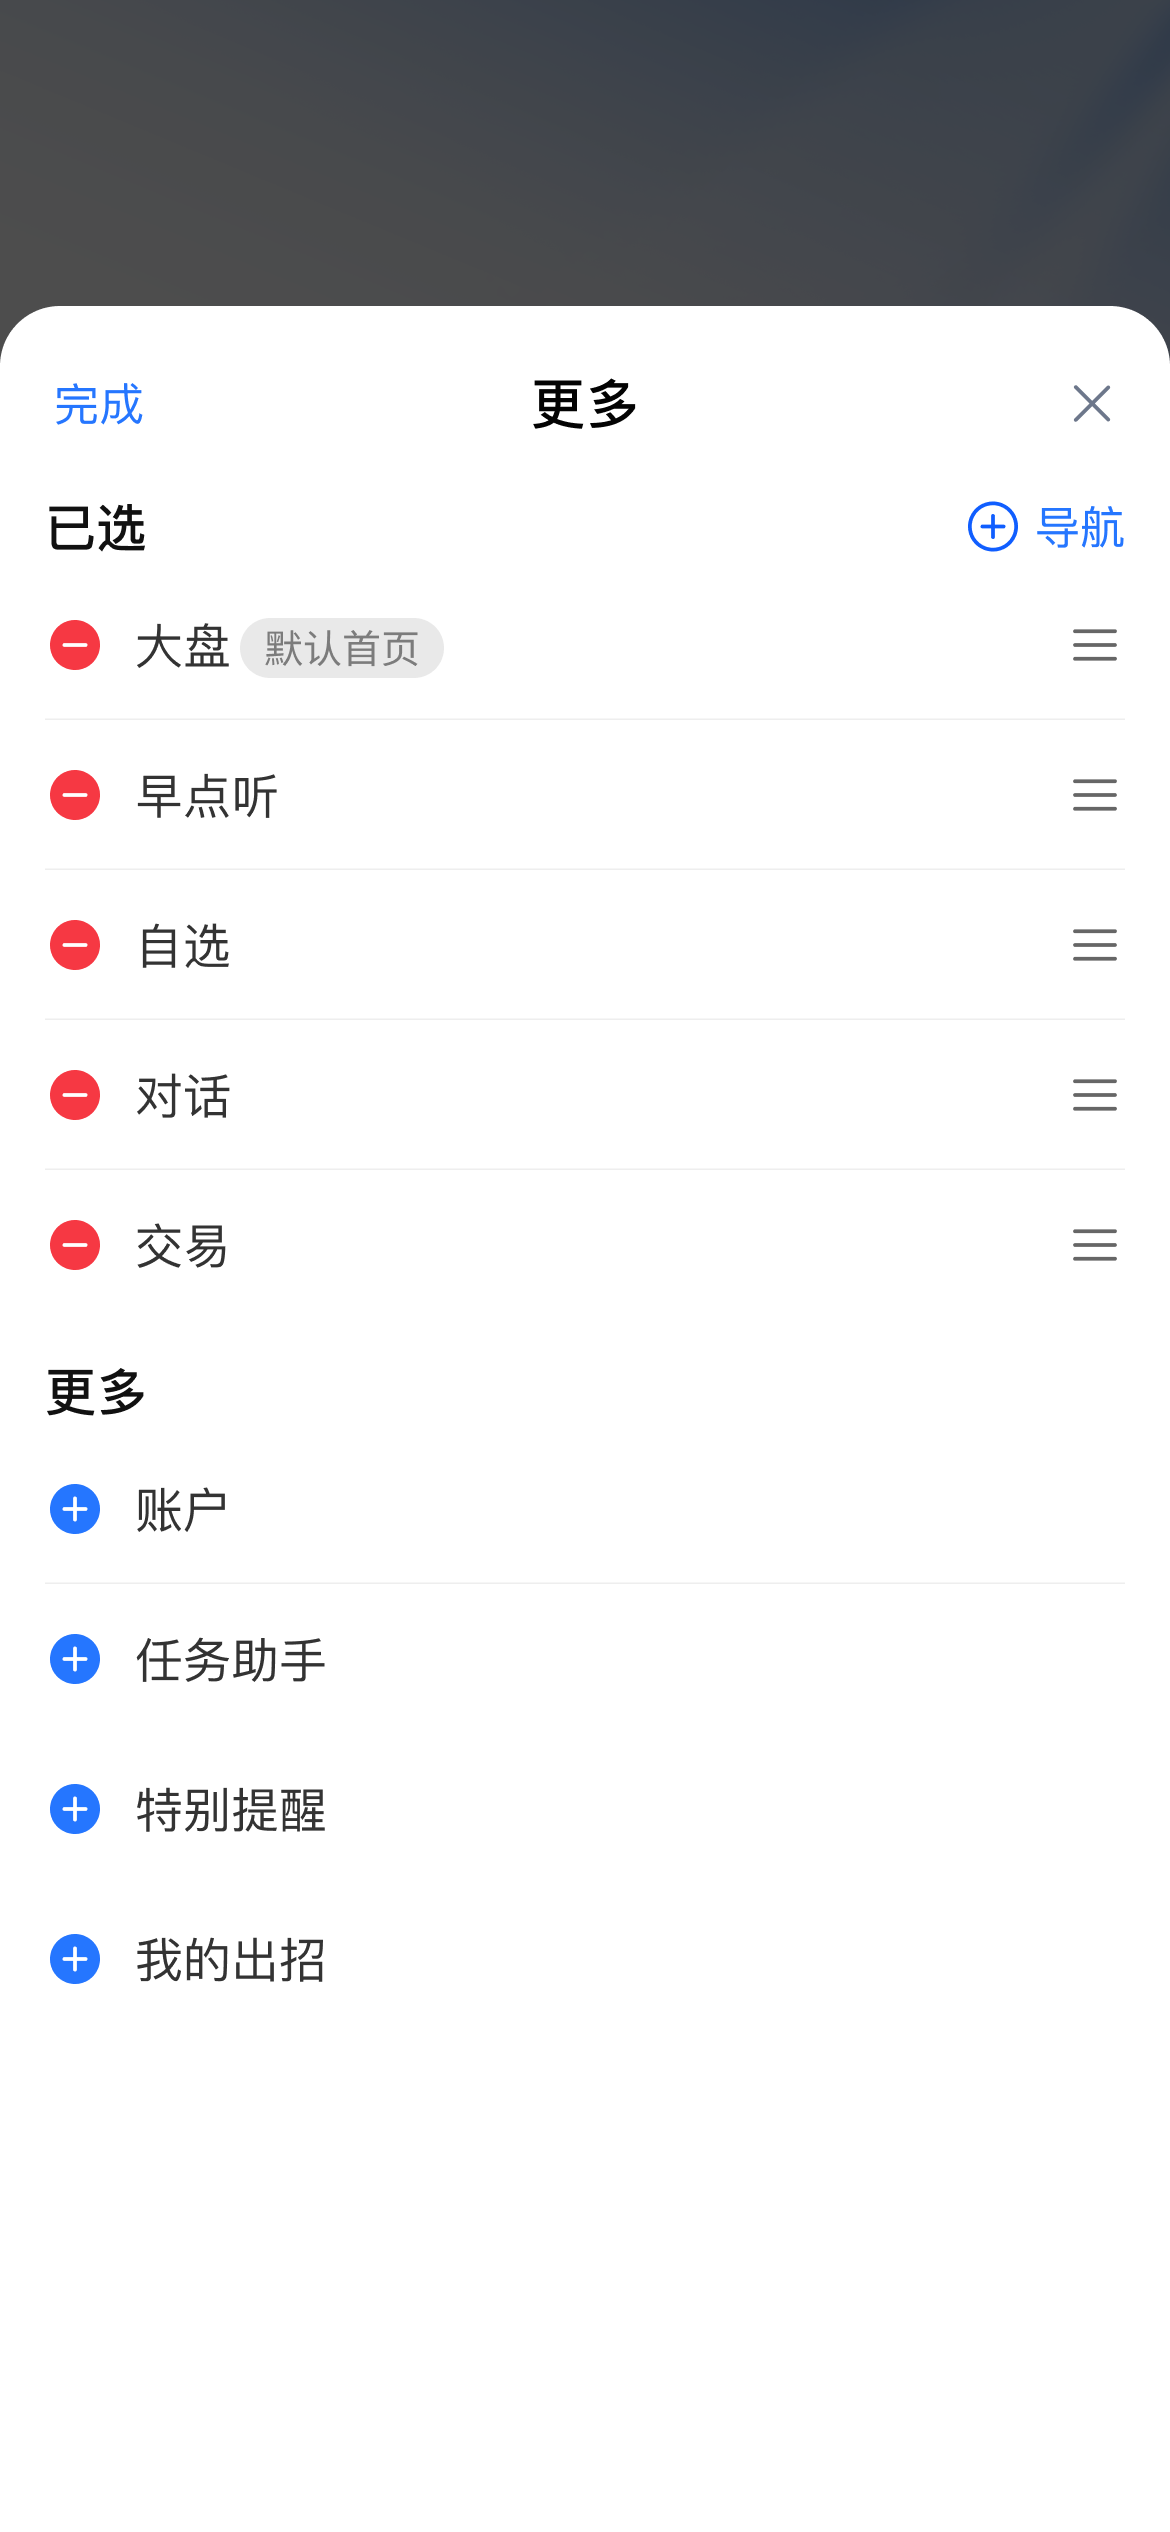
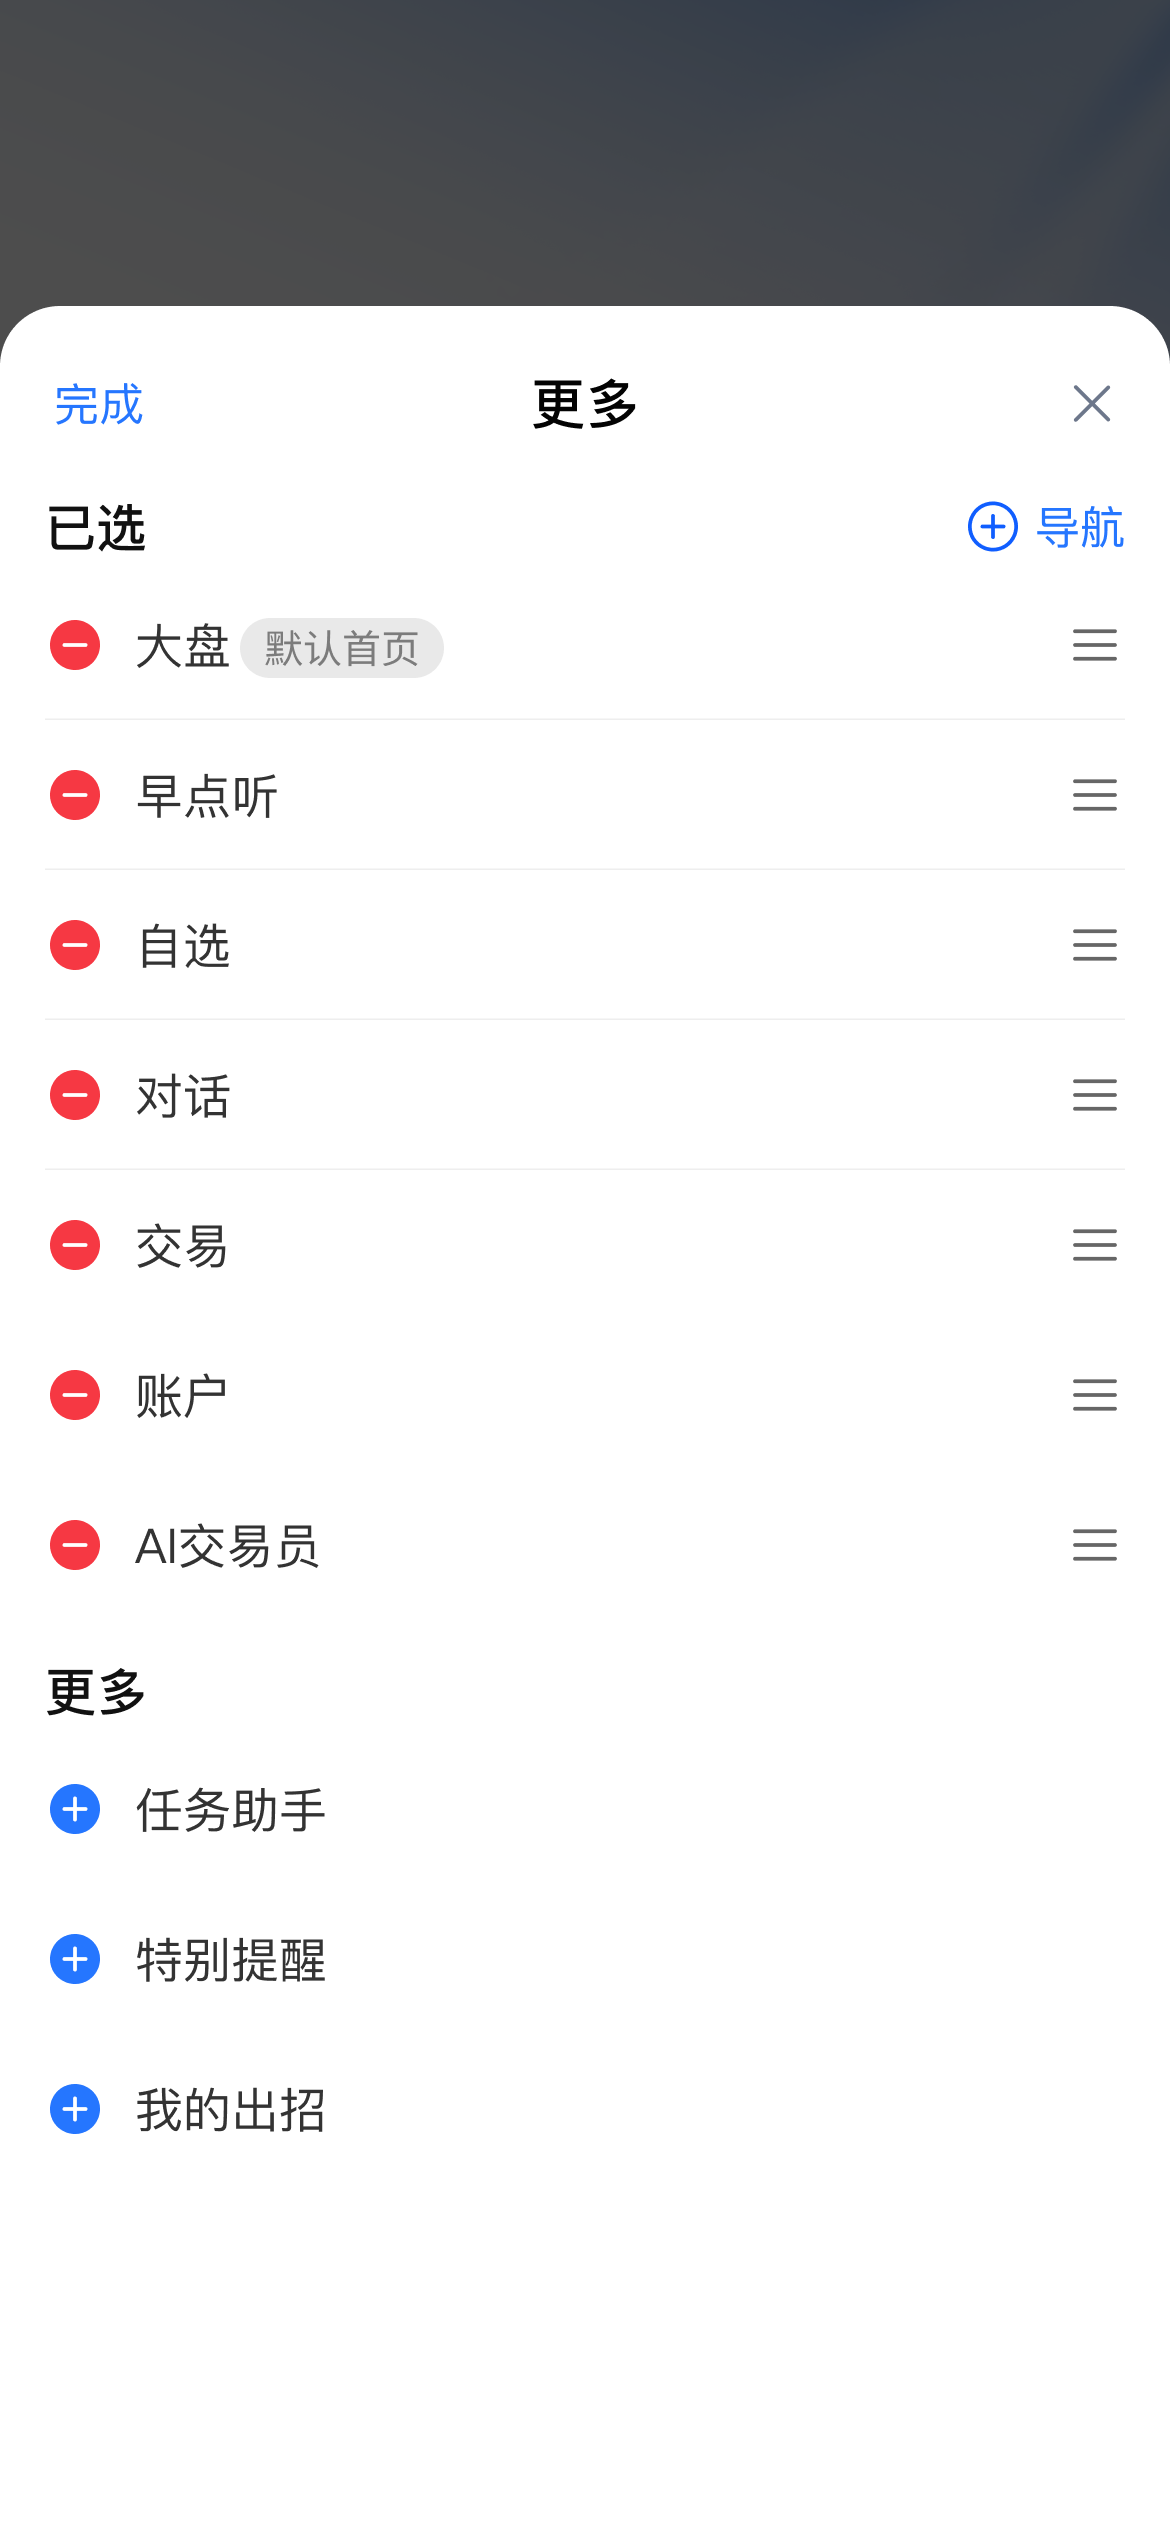
feat(screen): implement sliding animations for screen transitions
- Introduced a new screen-stage wrapper in index.html to facilitate sliding animations for screen transitions.
- Added animation logic in script.js to handle sliding in and out effects based on user navigation.
- Updated styles.css to define sliding animations and ensure responsive behavior for reduced motion preferences.
- Removed redundant hotspots div from the main layout for cleaner structure.

diff --git a/script.js b/script.js
@@ -166,6 +166,7 @@ const bottomBar = document.querySelector("#bottomBar");
 const guideLayer = document.querySelector("#guideLayer");
 const moreMenu = document.querySelector("#moreMenu");
 const moreModal = document.querySelector("#moreModal");
+const screenStage = document.querySelector("#screenStage");
 const chatInteraction = document.querySelector("#chatInteraction");
 const chatStream = document.querySelector("#chatStream");
 const chatTabs = document.querySelector(".chat-tabs");
@@ -197,6 +198,7 @@ let activeKey = "kyc";
 let activeNav = "market";
 let moreMenuActive = false;
 let modalGuideActive = false;
+let sidebarEnteredFromChat = false;
 let followupGuideNav = null;
 let followupGuideSelector = null;
 let guideDismissed = false;
@@ -247,6 +249,26 @@ function syncBottomBarVisibility() {
 
 function syncHotspotLayerHeight() {
   hotspotsLayer.style.height = `${image.offsetHeight}px`;
+}
+
+function runScreenSlide(className) {
+  return new Promise((resolve) => {
+    screenStage.classList.remove("is-sliding-in-from-left", "is-sliding-out-to-left");
+    screenStage.classList.add(className);
+
+    let finished = false;
+    const finish = () => {
+      if (finished) return;
+      finished = true;
+      screenStage.removeEventListener("animationend", finish);
+      clearTimeout(timer);
+      screenStage.classList.remove(className);
+      resolve();
+    };
+
+    const timer = setTimeout(finish, 380);
+    screenStage.addEventListener("animationend", finish);
+  });
 }
 
 function applyGuideBounds(x, y, w, h, handSide = "right") {
@@ -392,8 +414,23 @@ function setActiveScreenGuide(screen = screens[activeKey]) {
   setGuide(screen?.guide);
 }
 
-function showScreen(key, nextGuideSelector = null) {
+async function showScreen(key, nextGuideSelector = null) {
+  if (key === "chat" && activeKey === "sidebar" && sidebarEnteredFromChat) {
+    guideLayer.hidden = true;
+    await runScreenSlide("is-sliding-out-to-left");
+    sidebarEnteredFromChat = false;
+    showScreen(key, nextGuideSelector);
+    return;
+  }
+
   const screen = screens[key];
+  const slideInFromLeft = key === "sidebar" && activeKey === "chat";
+  if (slideInFromLeft) {
+    sidebarEnteredFromChat = true;
+  } else if (key !== "sidebar") {
+    sidebarEnteredFromChat = false;
+  }
+
   activeKey = key;
   moreMenuActive = false;
   modalGuideActive = false;
@@ -410,7 +447,8 @@ function showScreen(key, nextGuideSelector = null) {
   moreMenu.hidden = true;
   moreModal.hidden = true;
   confirmCard.hidden = !screen.confirm;
-  const afterImageReady = () => {
+
+  const revealScreen = () => {
     syncHotspotLayerHeight();
     scrollArea.scrollTo({ top: 0, behavior: "auto" });
     syncChatTabsScrollPosition();
@@ -429,6 +467,15 @@ function showScreen(key, nextGuideSelector = null) {
       });
     });
   };
+
+  const afterImageReady = async () => {
+    if (slideInFromLeft) {
+      guideLayer.hidden = true;
+      await runScreenSlide("is-sliding-in-from-left");
+    }
+    revealScreen();
+  };
+
   image.onload = afterImageReady;
   image.src = `${screen.src}?v=${assetVersion}`;
   renderHotspots(screen);
@@ -460,6 +507,8 @@ function updateNavState(screenKey = activeKey, forceMore = false) {
 
 function showKyc() {
   activeKey = "kyc";
+  sidebarEnteredFromChat = false;
+  screenStage.classList.remove("is-sliding-in-from-left", "is-sliding-out-to-left");
   kycScreen.hidden = false;
   syncBottomBarVisibility();
   confirmCard.hidden = true;

diff --git a/styles.css b/styles.css
@@ -498,11 +498,43 @@ body {
   display: none;
 }
 
+.screen-stage {
+  position: relative;
+}
+
 #screenImage {
   display: block;
   width: 100%;
   height: auto;
   user-select: none;
+}
+
+.screen-stage.is-sliding-in-from-left {
+  animation: screenSlideInFromLeft 0.34s cubic-bezier(0.22, 1, 0.36, 1) forwards;
+}
+
+.screen-stage.is-sliding-out-to-left {
+  animation: screenSlideOutToLeft 0.34s cubic-bezier(0.22, 1, 0.36, 1) forwards;
+}
+
+@keyframes screenSlideInFromLeft {
+  from {
+    transform: translateX(-100%);
+  }
+
+  to {
+    transform: translateX(0);
+  }
+}
+
+@keyframes screenSlideOutToLeft {
+  from {
+    transform: translateX(0);
+  }
+
+  to {
+    transform: translateX(-100%);
+  }
 }
 
 .confirm-card {
@@ -578,6 +610,13 @@ body {
   left: 0;
   width: 100%;
   pointer-events: none;
+}
+
+@media (prefers-reduced-motion: reduce) {
+  .screen-stage.is-sliding-in-from-left,
+  .screen-stage.is-sliding-out-to-left {
+    animation: none;
+  }
 }
 
 .bottom-bar {

diff --git a/index.html b/index.html
@@ -59,7 +59,10 @@
             </div>
           </section>
           <div class="scroll-area" id="scrollArea">
-            <img id="screenImage" alt="AI涨乐页面" draggable="false" />
+            <div class="screen-stage" id="screenStage">
+              <img id="screenImage" alt="AI涨乐页面" draggable="false" />
+              <div class="hotspots" id="hotspots"></div>
+            </div>
             <div class="confirm-card" id="confirmCard" hidden>
               <img src="./assets/images/guide layout.png" alt="确认" draggable="false" />
               <div class="confirm-actions">
@@ -67,7 +70,6 @@
                 <button type="button" class="btn-customize">去定制</button>
               </div>
             </div>
-            <div class="hotspots" id="hotspots"></div>
           </div>
           <div class="bottom-bar" id="bottomBar">
               <button class="nav-item" type="button" data-nav="market" aria-label="大盘">
